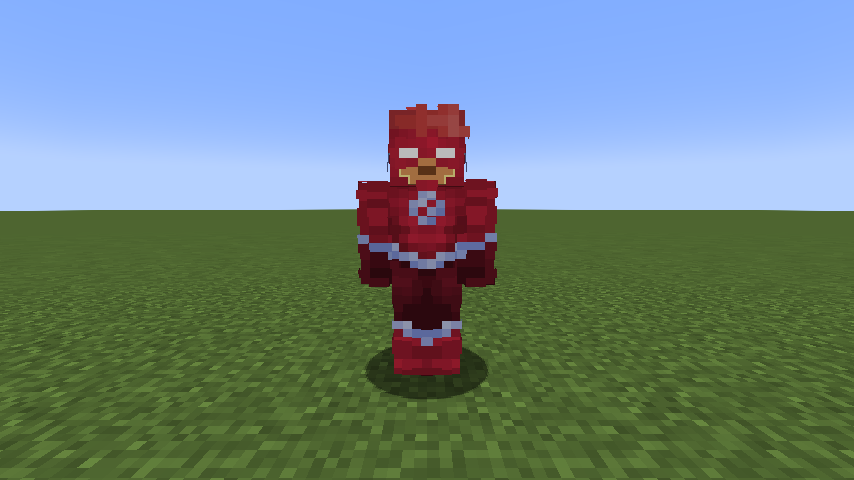
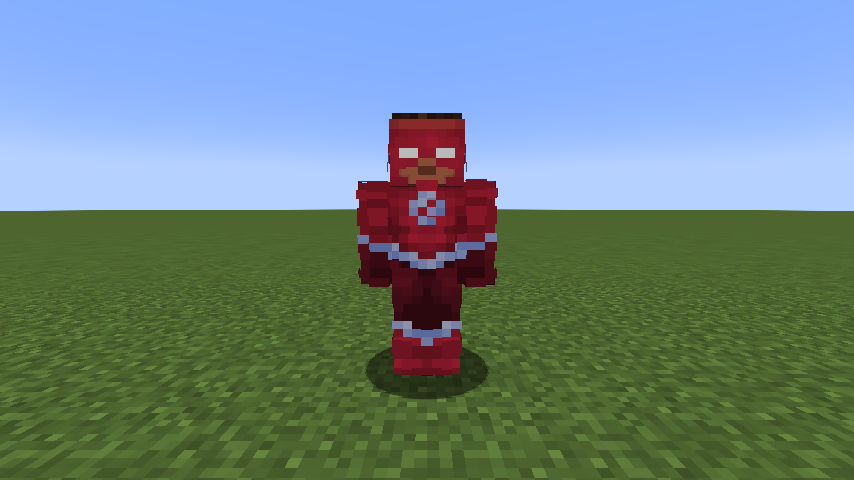
v0.17.1: Wally West suit open at the top -- no hair, the wearer's own head shows

diff --git a/scratchpad/flash_suits_v0171/gen_flash_styles.js b/scratchpad/flash_suits_v0171/gen_flash_styles.js
@@ -54,6 +54,10 @@ function build(id, opts) {
 	if (opts.noHair) {
 		for (let y = 0; y < 8; y++) for (let x = 40; x < 48; x++) px.fill(0, at(x, y), at(x, y) + 4);
 		for (let y = 8; y < 11; y++) for (let x = 32; x < 64; x++) px.fill(0, at(x, y), at(x, y) + 4);
+		// v0.17.1 (user: "theres still some orange hair ... remove it so that the top of the players head sticks out"): the
+		// base cowl opens at the top too -- its top face and the top row of every side go, so the wearer's own head shows
+		for (let y = 0; y < 8; y++) for (let x = 8; x < 16; x++) px.fill(0, at(x, y), at(x, y) + 4);
+		for (let x = 0; x < 32; x++) px.fill(0, at(x, 8), at(x, 8) + 4);
 	}
 	fs.writeFileSync(path.join(OUT, 'flash_' + id + '.png'), tools.encode(64, 64, px));
 	console.log(id, 'face texels cut', cut, 'gaps filled', filled);
